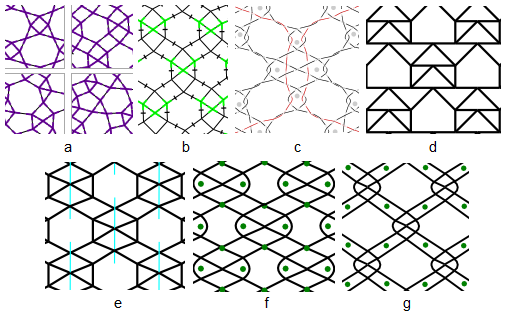
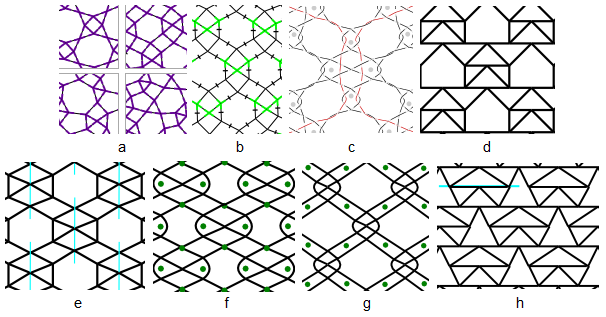
rephrased and elaborated

diff --git a/Home.md b/Home.md
@@ -3,7 +3,7 @@ Designing new grounds
 
 The pages listed in the sidebar provide tutorials, tips and tricks to use the generated diagrams. Though screenshots and procedures may be geared to the free [InkScape], other SVG compatible [editors] will have similar functions. Please feel welcome to improve the wiki pages and add your own: create a github account and hit the edit button.
 
-Varying stitches and playing with the download renders a myriad of variations for a single pattern. Shortening [Jane Atkinson]'s [citation] of the Bauhaus school of art: experiment, play, think. Some experiments may result in innovations, but even when reinventing wheels it is your own discovery and not taught.
+Varying stitches and playing with the download renders a myriad of variations for a single pattern. Shortening [Jane Atkinson]'s [citation] of the Bauhaus school of art: _experiment, play, think. Some experiments may result in innovations, but even when reinventing wheels it is your own discovery and not taught._
 
 [Jane Atkinson]: http://www.contemporarylace.com/
 [citation]: https://raw.githubusercontent.com/wiki/d-bl/TesseLaceD/bauhaus.png
@@ -21,15 +21,21 @@ Each type of diagram plays its own role while designing bobbin lace grounds. The
 * Knowing the flow of threads you can plan where to apply different colors and/or widths. These two decisions may become part of an iterative process.
 * Determine which stitches get pins and where these pins should be placed relatively to one another. These relative positions are bound by certain rules if the lace should maintain its texture without starch or wire.
 
-The diagram generator can relief much tedious work that would go into these steps in ink and paper times and reduce (but not eliminate) the trial and error of experimental patches. In short: 
-* start with selecting a diagram from the thumbnails (figure a) or the advanced options, 
-* specify stitches for figure b and c, 
-* apply colors to individual threads in figure c, 
-* nudge the download in a shape you like
+The diagram generator can relief much tedious work that would go into these steps in ink and paper times and reduce (but not eliminate) the trial and error of experimental patches. In short:
+
+* Start with selecting a diagram from the thumbnails (figure a) or the advanced options.
+* Specify stitches for figure b and c.
+* Apply colors to individual threads in figure c.
+* Download figure d and customize it into e-h or whatever your fancy.
 
 
 ![](https://raw.githubusercontent.com/wiki/d-bl/TesseLaceD/intro.png)
 
 Like the London Tube maps inform you about destinations and connections but not about geographic locations or travel time, the diagrams in figure b and c just provide instructions to create a patch of lace. 
 
-The thumbnails of figure a provide some predefined configurations of diagrams, the advanced options allow for more. Figures b-d show the diagrams and download for one of the patterns, figure e-g show customized versions of the download. The blue lines in figure e illustrate how the initial changes are made by nudging three intersections downwards. Figure f and g represent traditional grounds. Figure f is a virgin ground as in c, figure g presents small Binche snowflakes which are traditionally worked in cloth stitch with twisted connections. The intersections in figure d can be moved in many other directions by a half or full grid position and still produce a pattern that would need neither starch nor wire to keep its shape. 
+The blue lines in figure e illustrate how the initial changes for e and f are made by nudging three intersections downwards. The intersections in figure d can be moved in many other directions by a half or full grid position or anything in between, figure h is just another example with intersections nudged along another blue line. 
+
+Figure f and g represent traditional grounds. Figure f is a virgin ground as in c, figure g presents small Binche snowflakes which are traditionally worked in cloth stitch with twisted connections. The traditional examples illustrate the following:
+
+* You can apply pins at intersections and/or between pairs.
+* A pricking does not need to show how the pairs flow. A Binche pricking would only show the dots for the pins, sometimes a circle between pins reminds were to create a snowflake. A Torchon pricking with the virgin ground would have the pins and something like a Z connecting the pins to indicate the netted and barred sections. For your own grounds you might have to invent your own annotations that make the pricking less cluttered yet keep you on track while making the lace.

diff --git a/Pattern-Layout.md b/Pattern-Layout.md
@@ -5,6 +5,10 @@ The second "brick" from the top and left is a group that contains the original l
 
 ![](https://raw.githubusercontent.com/wiki/d-bl/TesseLaceD/original.png)
 
-Drag the nodes of the lines in the original group to change the layout. Note that nodes along the edge of the group connect to nodes along other edges. So to reposition a single intersection you may hav to move nodes at different locations.
+Drag the nodes of the lines in the original group to change the layout.
 
 ![](https://raw.githubusercontent.com/wiki/d-bl/TesseLaceD/nodes.png)
+
+Note that nodes along the perimeter of the group connect to nodes in a clone. To such an intersection you may have to move nodes at different locations. In the annotated example below you will have to move p along with b, in another pattern you might have to move f along with be.
+
+![](https://raw.githubusercontent.com/wiki/d-bl/TesseLaceD/matching-nodes.png)
